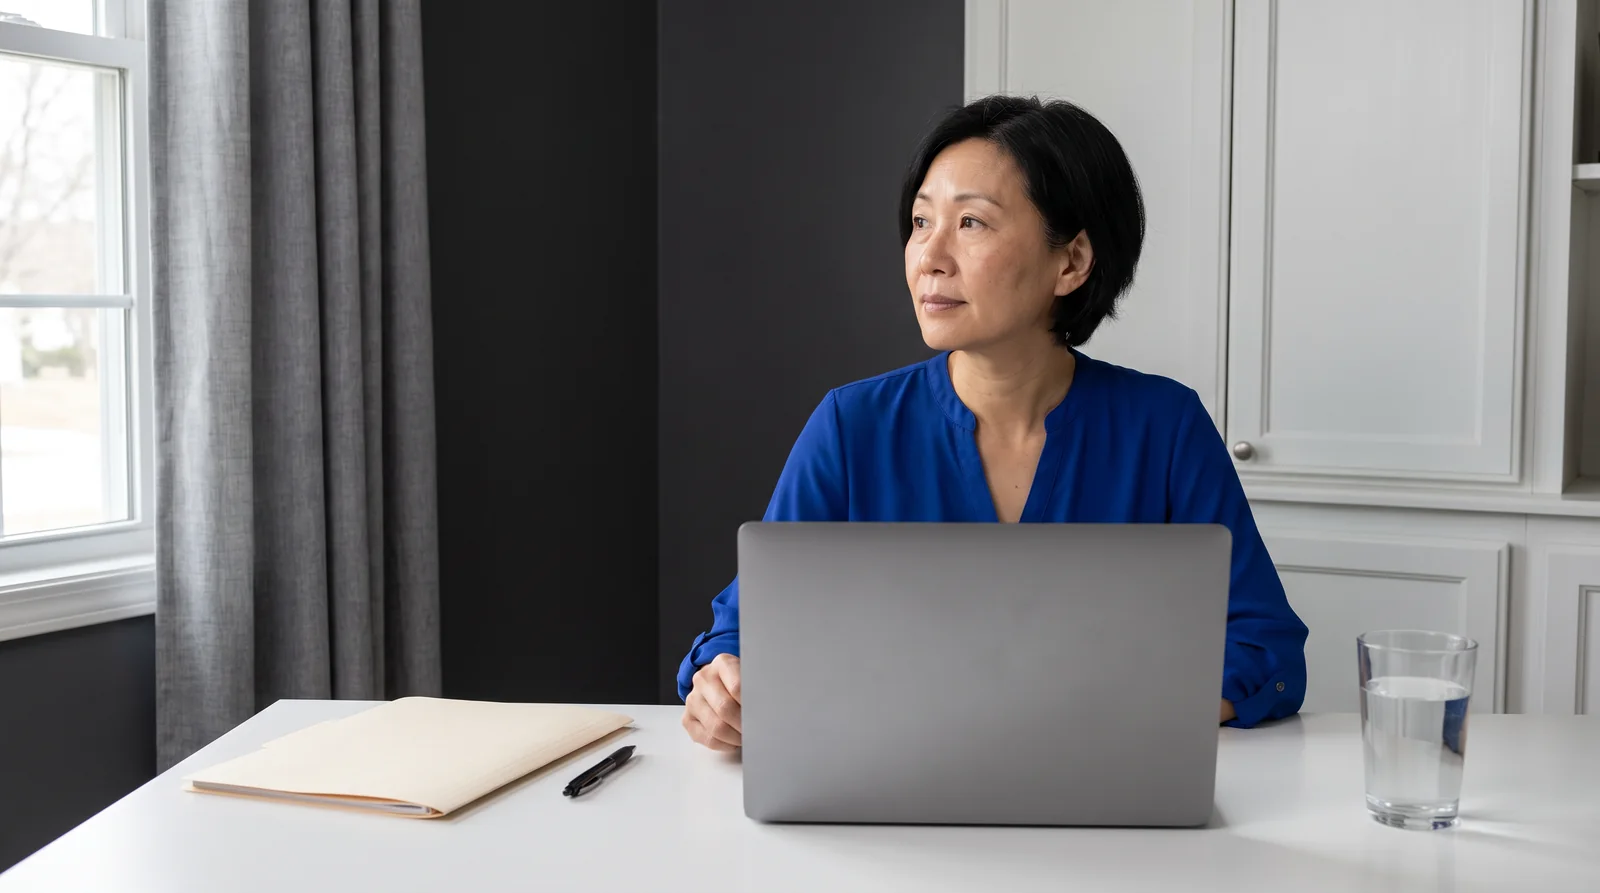
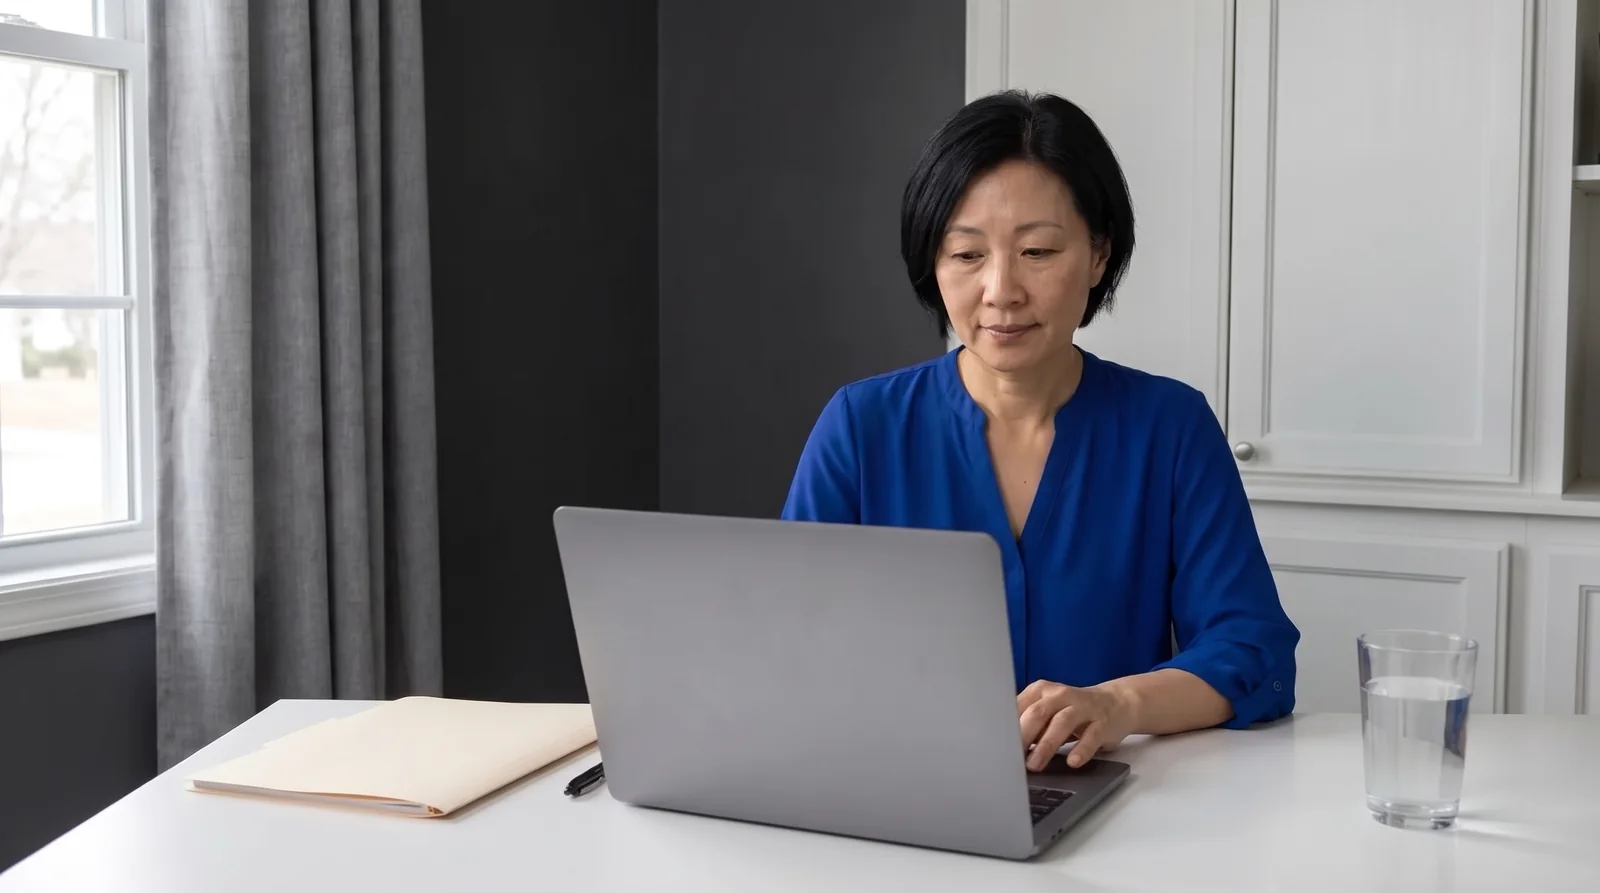
photos: 401k-catch-up-limit-2027 recheck fixes

diff --git a/blog-pipeline/photos-completed/401k-catch-up-limit-2027.md b/blog-pipeline/photos-completed/401k-catch-up-limit-2027.md
@@ -36,3 +36,6 @@ note: "Charcoal and white home office, East Asian woman in a cobalt blouse at a 
 - image_url: https://scan.ismyhometoxic.com/blog-images/401kcatchup-freedom-v1.webp
 - placement: final image before the closing CTA
 - completed: 2026-11-19T14:26:00
+
+## Recheck (Photo Claude) 2026-11-20
+Recheck: Hero now shows her working at the laptop.
